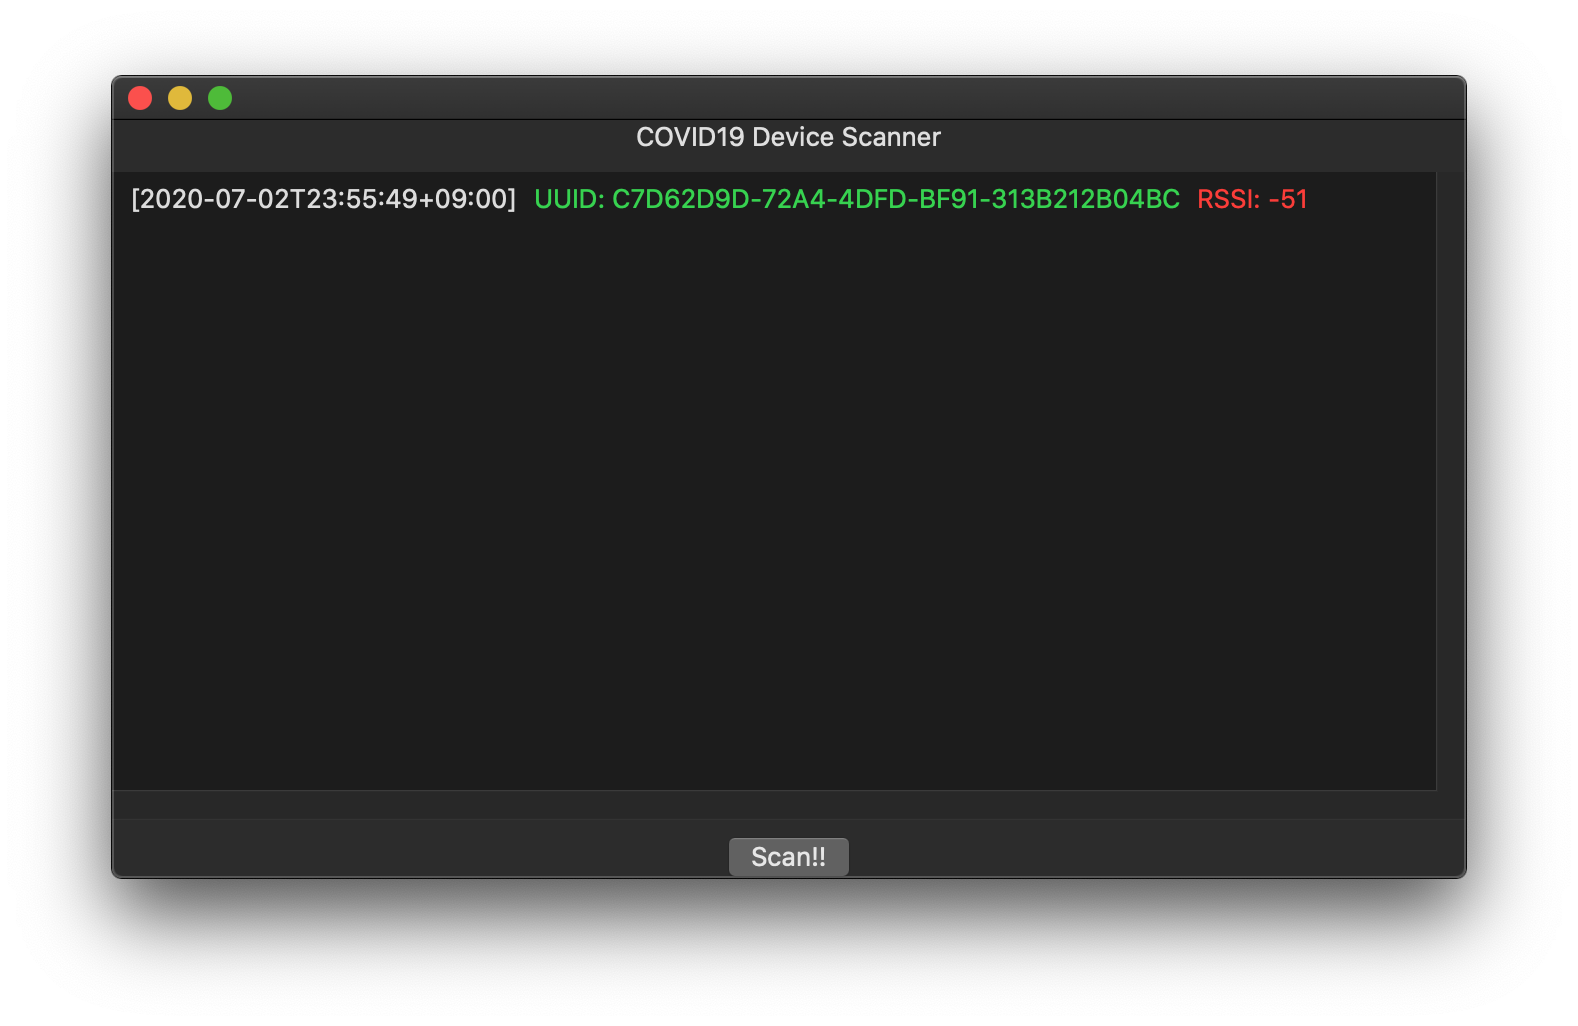
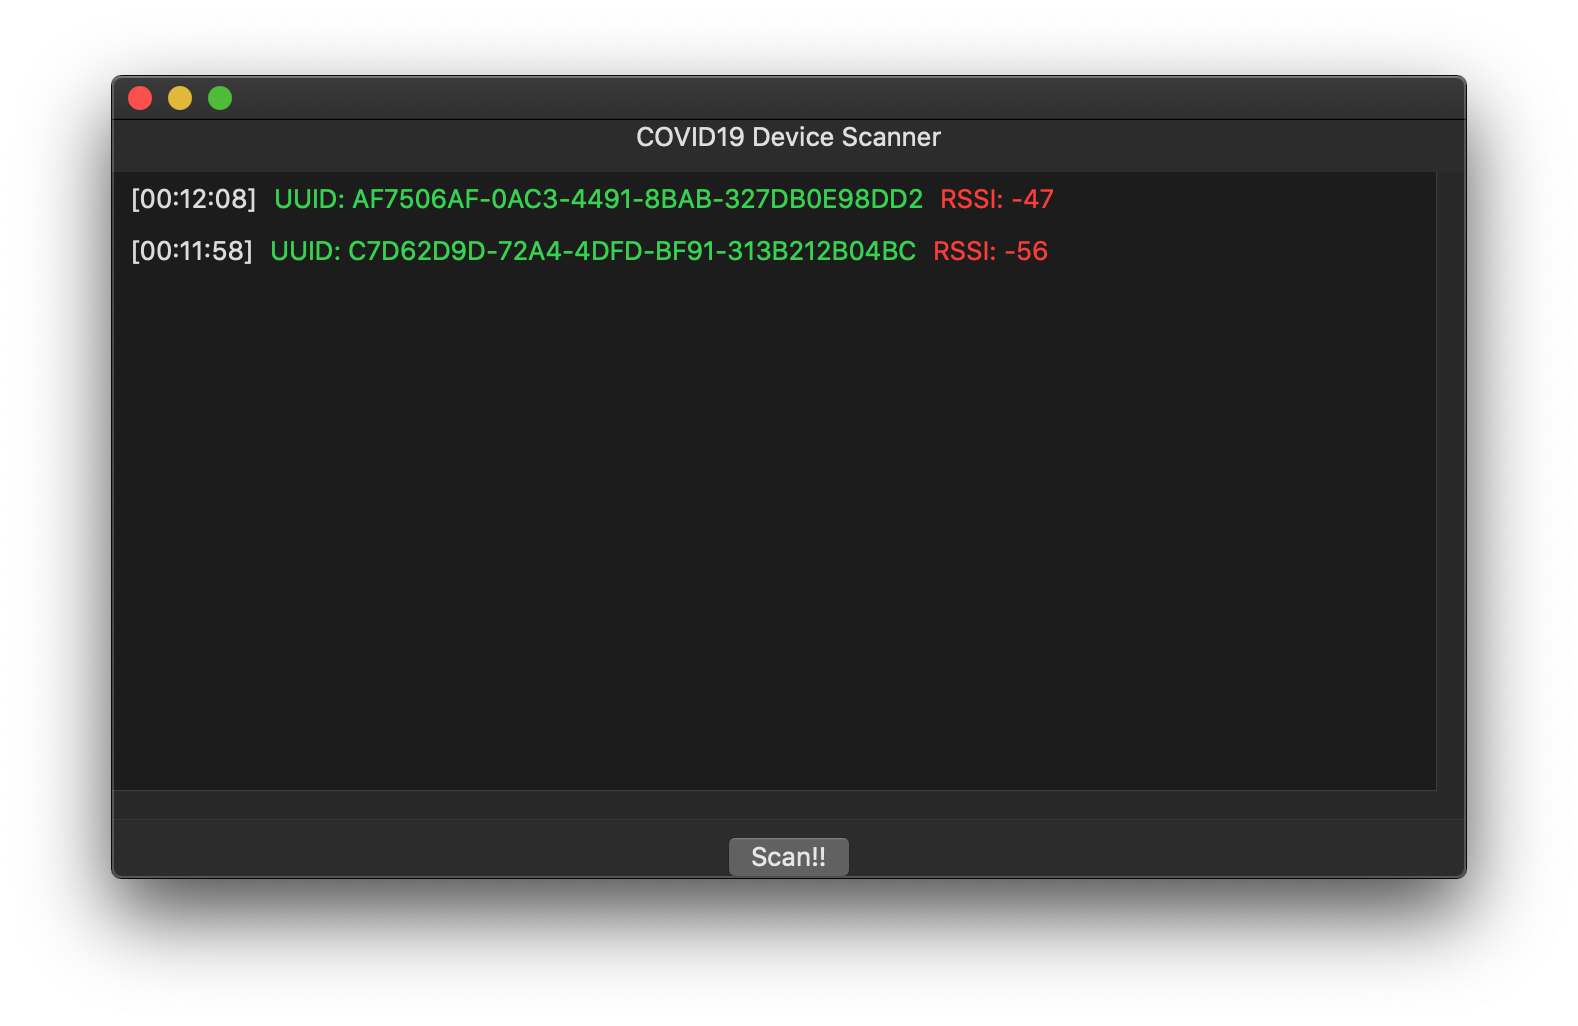
Change date format

Changed region(s): [[0.0932, 0.1871, 0.8384, 0.2495]]

diff --git a/COVID19 Device Scanner/ContentView.swift b/COVID19 Device Scanner/ContentView.swift
@@ -14,7 +14,7 @@ struct ContentView: View {
     
     init() {
         dateFormatter = DateFormatter();
-        dateFormatter.dateFormat = "yyyy-MM-dd'T'HH:mm:ssZZZZZ"
+        dateFormatter.dateFormat = "HH:mm:ss"
     }
     
     var body: some View {
